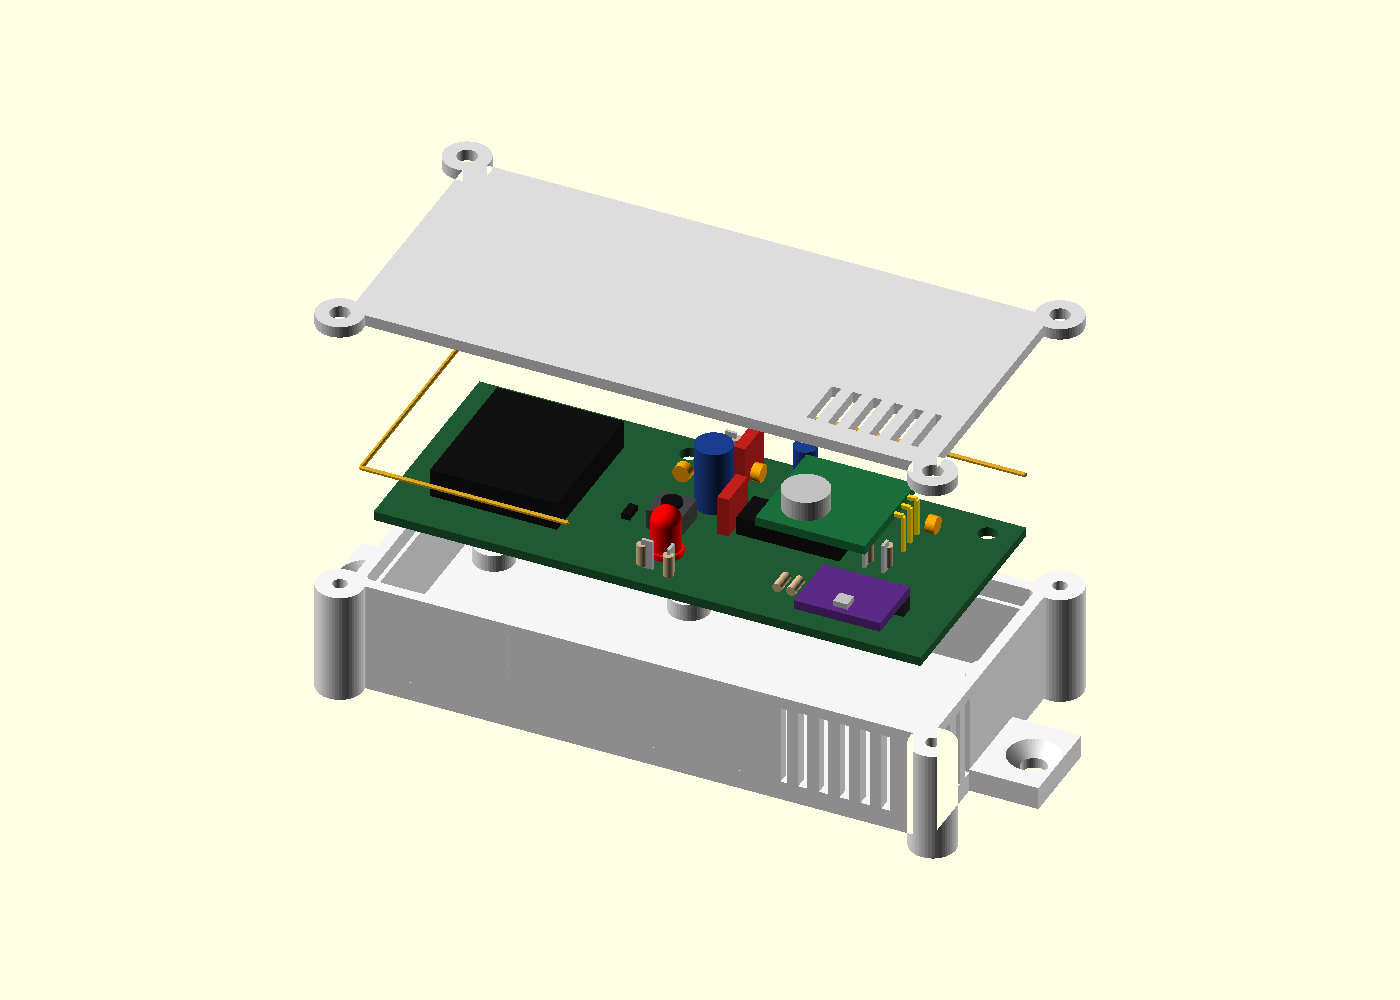
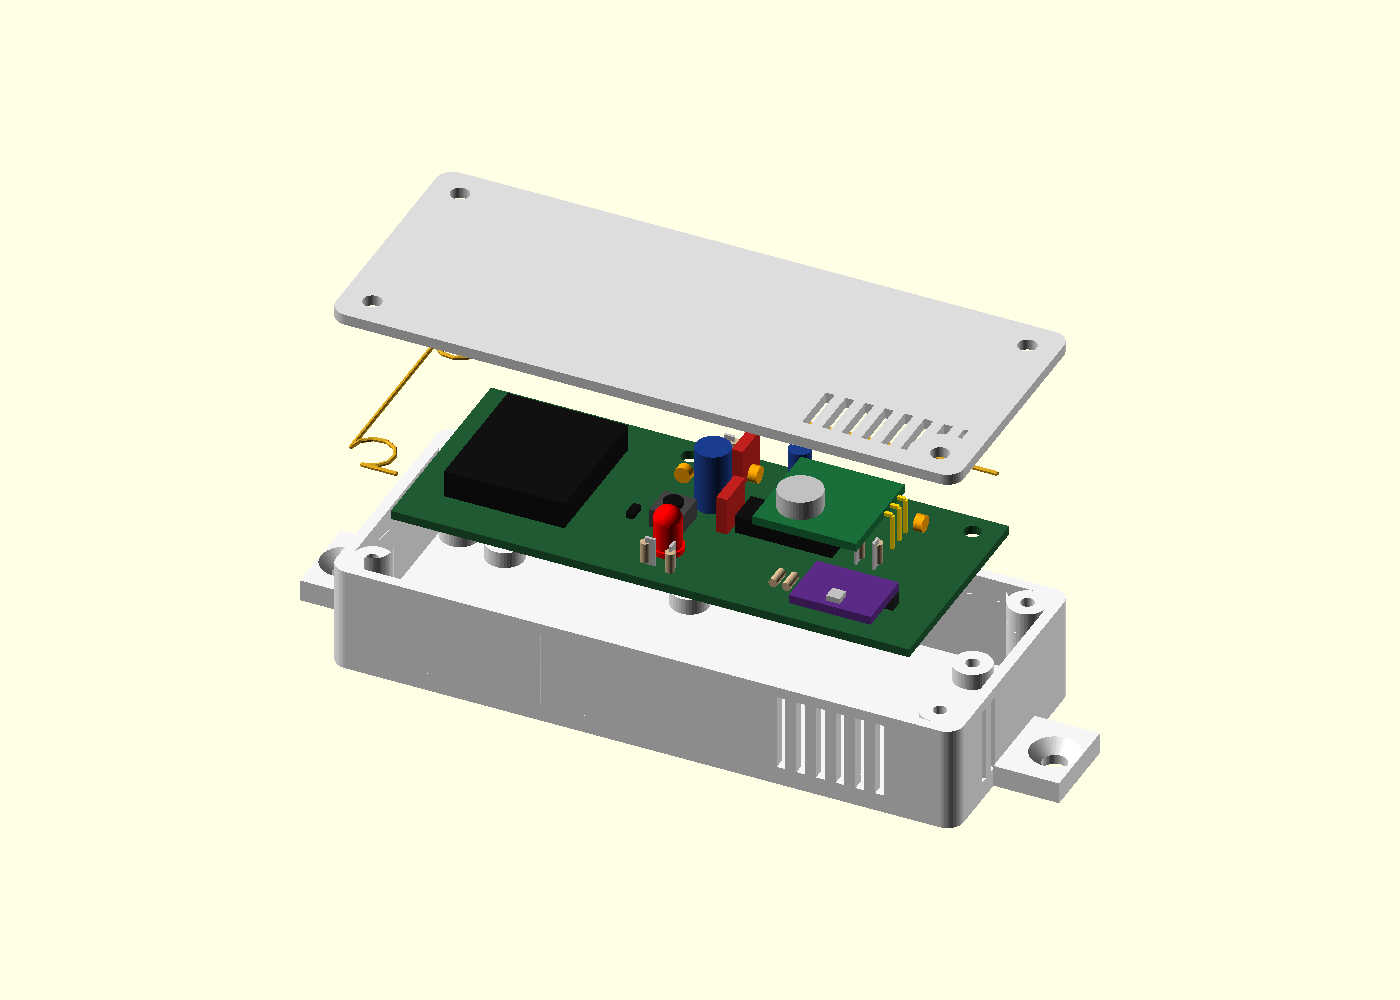
hw: flat box lid screws in M3 pillars inside the corners, lid flush
Base 114.8 x 45.3 (BME280) / 48.8 (DS18B20) x 19.5 mm without tabs, was
110.8 x 55.3; antenna groove runs around the pillars. Renders and README
updated.

Changed region(s): [[0.215, 0.124, 0.7986, 0.868], [0.3686, 0.62, 0.5221, 0.682]]

diff --git a/enclosing/flat/README.md b/enclosing/flat/README.md
@@ -18,9 +18,9 @@ Export and render commands are in the `flat_box.scad` header (`part` = `base`, `
 
 | | `bme280` | `ds18b20` |
 |---|---|---|
-| Base (with the wall tabs) | 124.8 × 55.3 × 19.5 mm | 124.8 × 58.8 × 19.5 mm |
-| Base without the tabs | 110.8 × 55.3 mm | 110.8 × 58.8 mm |
-| Lid | 110.8 × 55.3 × 2 mm | 110.8 × 58.8 × 2 mm |
+| Base (with the wall tabs) | 138.8 × 45.3 × 19.5 mm | 138.8 × 48.8 × 19.5 mm |
+| Base without the tabs | 114.8 × 45.3 mm | 114.8 × 48.8 mm |
+| Lid (flush with the walls) | 114.8 × 45.3 × 2 mm | 114.8 × 48.8 × 2 mm |
 | Closed box height | 21.5 mm | 21.5 mm |
 
 The parts fit an Ender 3 bed (220 × 220). The height is set by C1 (220 µF, Ø6.3 × 11.5 mm). C1 can't be laid over, because C2, C5, C7 and SW1 surround it and are all at least 4.3 mm tall. The flat radio comes to 10.9 mm, just under C1.
@@ -34,6 +34,7 @@ The parts fit an Ender 3 bed (220 × 220). The height is set by C1 (220 µF, Ø6
 - Not fitted: J13, J4, J7, J8, the J6 ISP header (holes only), and JP1. JP1 left open turns the LED off, which saves the battery.
 - **Radio**: the 433 MHz module is soldered straight into J1 with no header, its pins bent 90°. It lies flat over U1, components up, 5.8 mm above the board (it clears R9/R10). Match the pins by name: J1 is GND / VCC / DATA, while an FS1000A is DATA / VCC / GND. If the module pins are too short, extend them with 3 short wires.
 - **Antenna**: a 17.3 cm wire on the module ANT pad. It runs in the 1.2 × 0.8 mm groove along the inner wall, 3 mm under the rim, and the groove stops before the vents.
+- **Lid**: flush with the outer walls, on 4 M3 × 6 screws in Ø7 pillars inside the cavity corners, past both board ends. They clear the board by 1 mm, and the CR2032 holder by 7 mm. The antenna groove runs around them.
 - **Wall mounting**: 2 end tabs, Ø4 countersunk screws. Or just stand the box on a shelf.
 - **Vents**: plain 1.6 mm slots in the wall and the lid next to the sensor. There is no internal chamber: self-heating is negligible because the board sleeps 99 % of the time.
 
@@ -49,7 +50,7 @@ The parts fit an Ender 3 bed (220 × 220). The height is set by C1 (220 µF, Ø6
 | Qty | Part | Use |
 |---|---|---|
 | 3 | M3 × 6 self-tapping (or plastite) | board on the standoffs |
-| 4 | M3 × 6 self-tapping | lid, into the corner lugs |
+| 4 | M3 × 6 self-tapping | lid, into the corner pillars |
 | 2 | Ø4 countersunk wood screw + plug | wall tabs (optional) |
 | 1 | CR2032 | power |
 | 1 | 220 µF low-leakage electrolytic, Ø6.3, 2.5 mm pitch | C1 |
